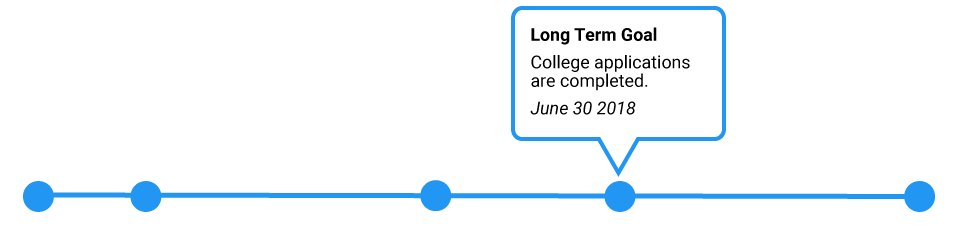
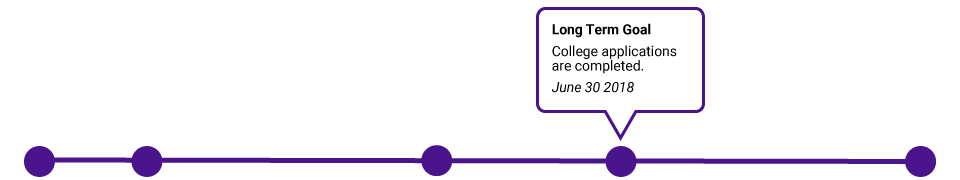
Tweek

Changed region(s): [[0.0, 0.0, 1.0, 1.0]]

diff --git a/materialize-src/dashboardBig1.html b/materialize-src/dashboardBig1.html
@@ -50,7 +50,7 @@
                             <option value="2">John Doe</option>
                         </select>
                     </div>
-                    <a class="waves-effect waves-light btn purple darken-1" id="dropdownButton">Submit</a>
+                    <a class="waves-effect waves-light btn purple darken-1" id="dropdownButton" href="dashboardBig1-2.html">Submit</a>
 
                 </div>
                 <div class="card-panel purple lighten-5">
@@ -62,6 +62,7 @@
 
                     <div class="row" id="minMargins">
                         <div class="col s8">
+                          Education
                             <h5>Read a short story out loud to someone.</h5>
                         </div>
                         <div class="col s4">
@@ -72,6 +73,7 @@
 
                     <div class="row" id="minMargins">
                         <div class="col s8">
+                          Social
                             <h5>Talk to a new friend at school.</h5>
                         </div>
                         <div class="col s4">
@@ -82,6 +84,7 @@
 
                     <div class="row" id="minMargins">
                         <div class="col s8">
+                          Education
                             <h5>Complete homework on time for the whole week.</h5>
                         </div>
                         <div class="col s4">

diff --git a/materialize-src/dashboardBig2.html b/materialize-src/dashboardBig2.html
@@ -62,11 +62,12 @@
 
             <div class="row" id="minMargins">
               <div class="col s8">
+                Education
             <h5>Review Online Practice Math EOG.</h5>
           </div>
           <div class="col s4">
             <img class="emoji" src="images/checkmark.png">
-			
+
             <img class="emoji" src="images/num2.png">
 
             <img class="emoji" src="images/paper2.png">
@@ -76,6 +77,7 @@
 
           <div class="row" id="minMargins">
             <div class="col s8">
+              Excurricular Activities
           <h5>Tried out for Debate Club </h5>
         </div>
         <div class="col s4">
@@ -88,6 +90,7 @@
 
         <div class="row" id="minMargins">
           <div class="col s8">
+            Education
         <h5>Complete homework on time for the whole week.</h5>
       </div>
       <div class="col s4">

diff --git a/materialize-src/dashboardLittle1.html b/materialize-src/dashboardLittle1.html
@@ -30,18 +30,18 @@
 
         <div class="col s3 purple lighten-4" id="sidebar">
             <div class="row">
-                <div class="col s2">
+                <div class="col s3">
                     <img src="images\badge.png"; height="60">
                 </div>
-                <div class="col s10">
+                <div class="col s9">
                     <p class="sidebarText">5 Goals Completed!</p>
                 </div>
             </div>
             <div class="row">
-                <div class="col s2">
+                <div class="col s3">
                     <img src="images\badge.png"; height="60">
                 </div>
-                <div class="col s10">
+                <div class="col s9">
                     <p class="sidebarText">1st Education Goal Completed!</p>
                 </div>
             </div>

diff --git a/materialize-src/dashboardBig3.html b/materialize-src/dashboardBig3.html
@@ -65,6 +65,7 @@
 
             <div class="row" id="minMargins">
               <div class="col s8">
+                Education
             <h5>Review Online Practice Math EOG.</h5>
           </div>
           <div class="col s4">
@@ -79,6 +80,7 @@
 
           <div class="row" id="minMargins">
             <div class="col s8">
+              Excurricular Activities
           <h5>Tried out for Debate Club </h5>
         </div>
         <div class="col s4">

diff --git a/materialize-src/dashboardBig1-2.html b/materialize-src/dashboardBig1-2.html
@@ -62,6 +62,7 @@
 
             <div class="row" id="minMargins">
               <div class="col s8">
+                Education
             <h5>Read a short story out loud to someone.</h5>
           </div>
           <div class="col s4">
@@ -72,6 +73,7 @@
 
           <div class="row" id="minMargins">
             <div class="col s8">
+              Social
           <h5>Talk to a new friend at school.</h5>
         </div>
         <div class="col s4">

diff --git a/materialize-src/css/custom.css b/materialize-src/css/custom.css
@@ -37,10 +37,10 @@ ul li a {
 .emoji {
   width: 12%;
   height: auto;
-  margin: 5px 20px; }
+  margin: 30px 20px; }
 
 .timeline {
-  width: 100%;
+  width: 90%;
   padding-bottom: 20px; }
 
 #dashboardInner {

diff --git a/materialize-src/sass/custom.sass b/materialize-src/sass/custom.sass
@@ -39,10 +39,10 @@ ul
 .emoji
   width: 12%
   height: auto
-  margin: 5px 20px
+  margin: 30px 20px
 
 .timeline
-  width: 100%
+  width: 90%
   padding-bottom: 20px
 
 #dashboardInner
